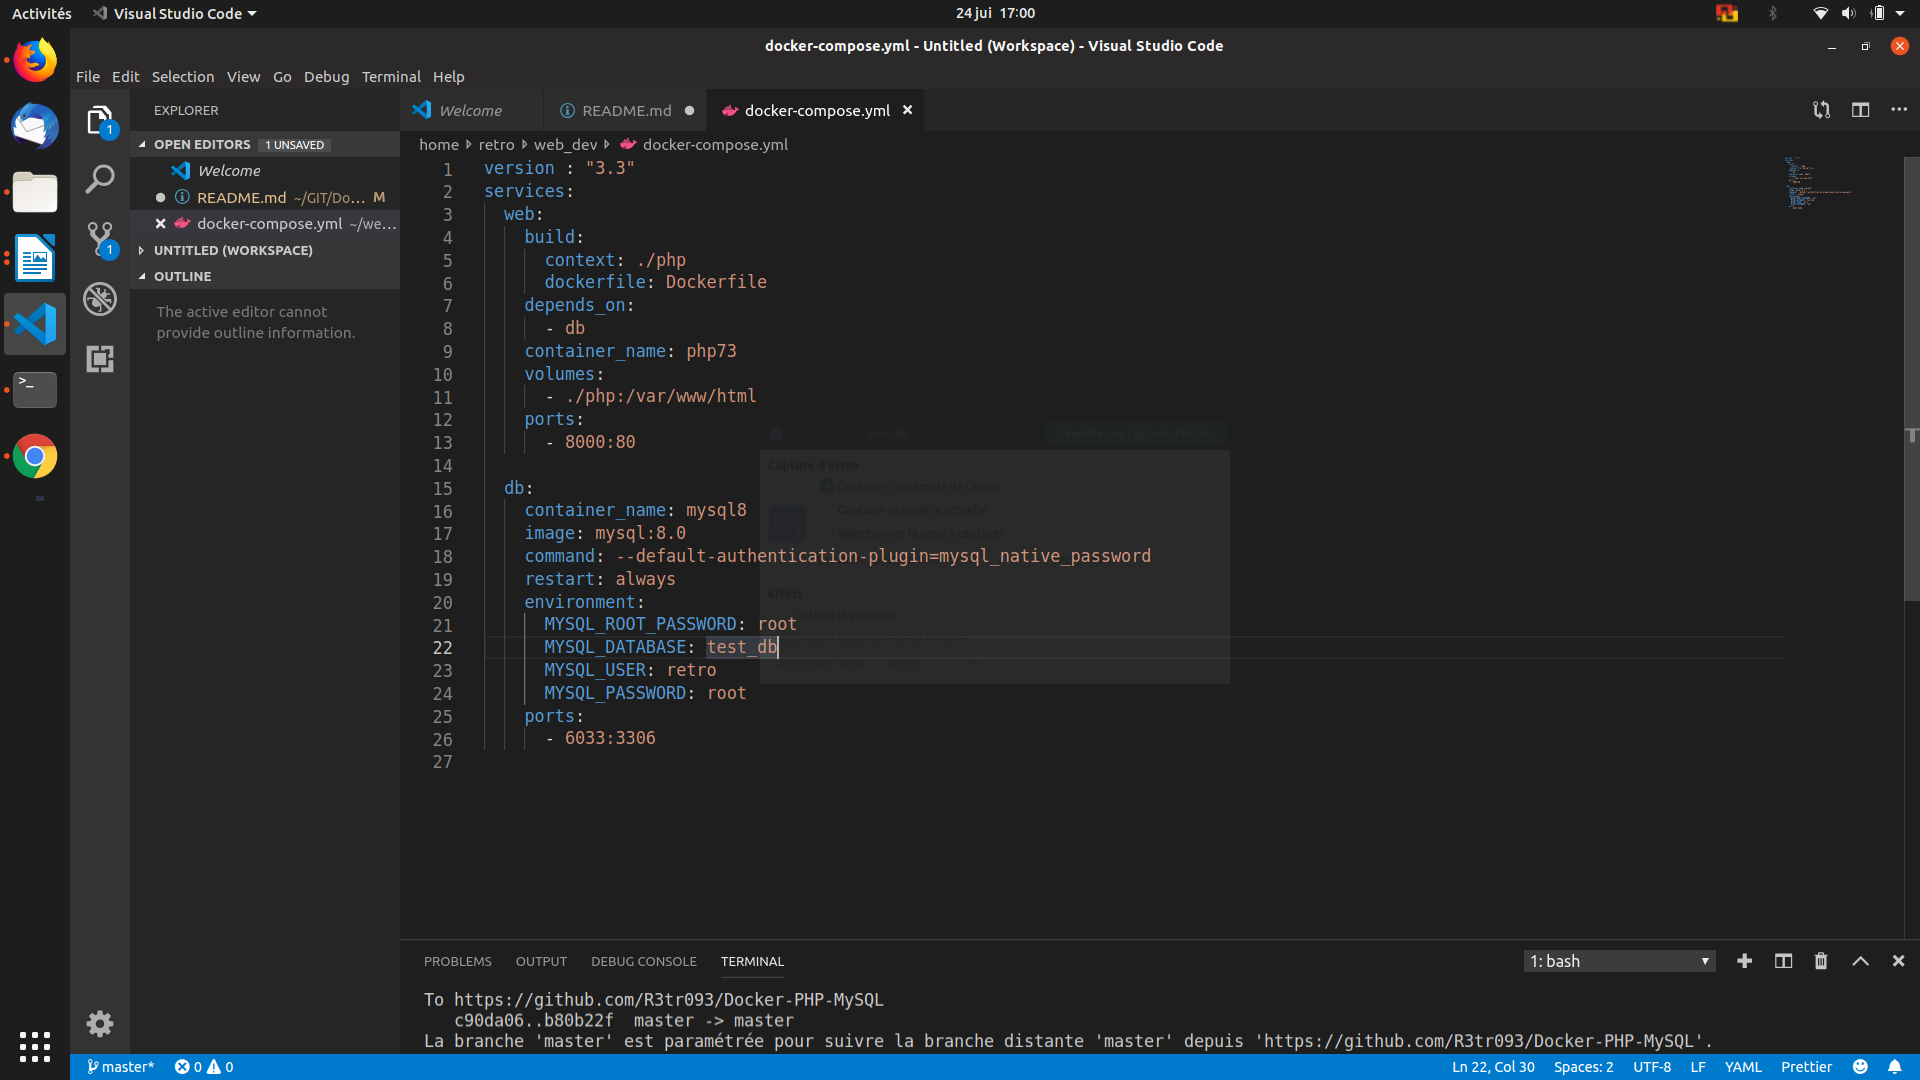
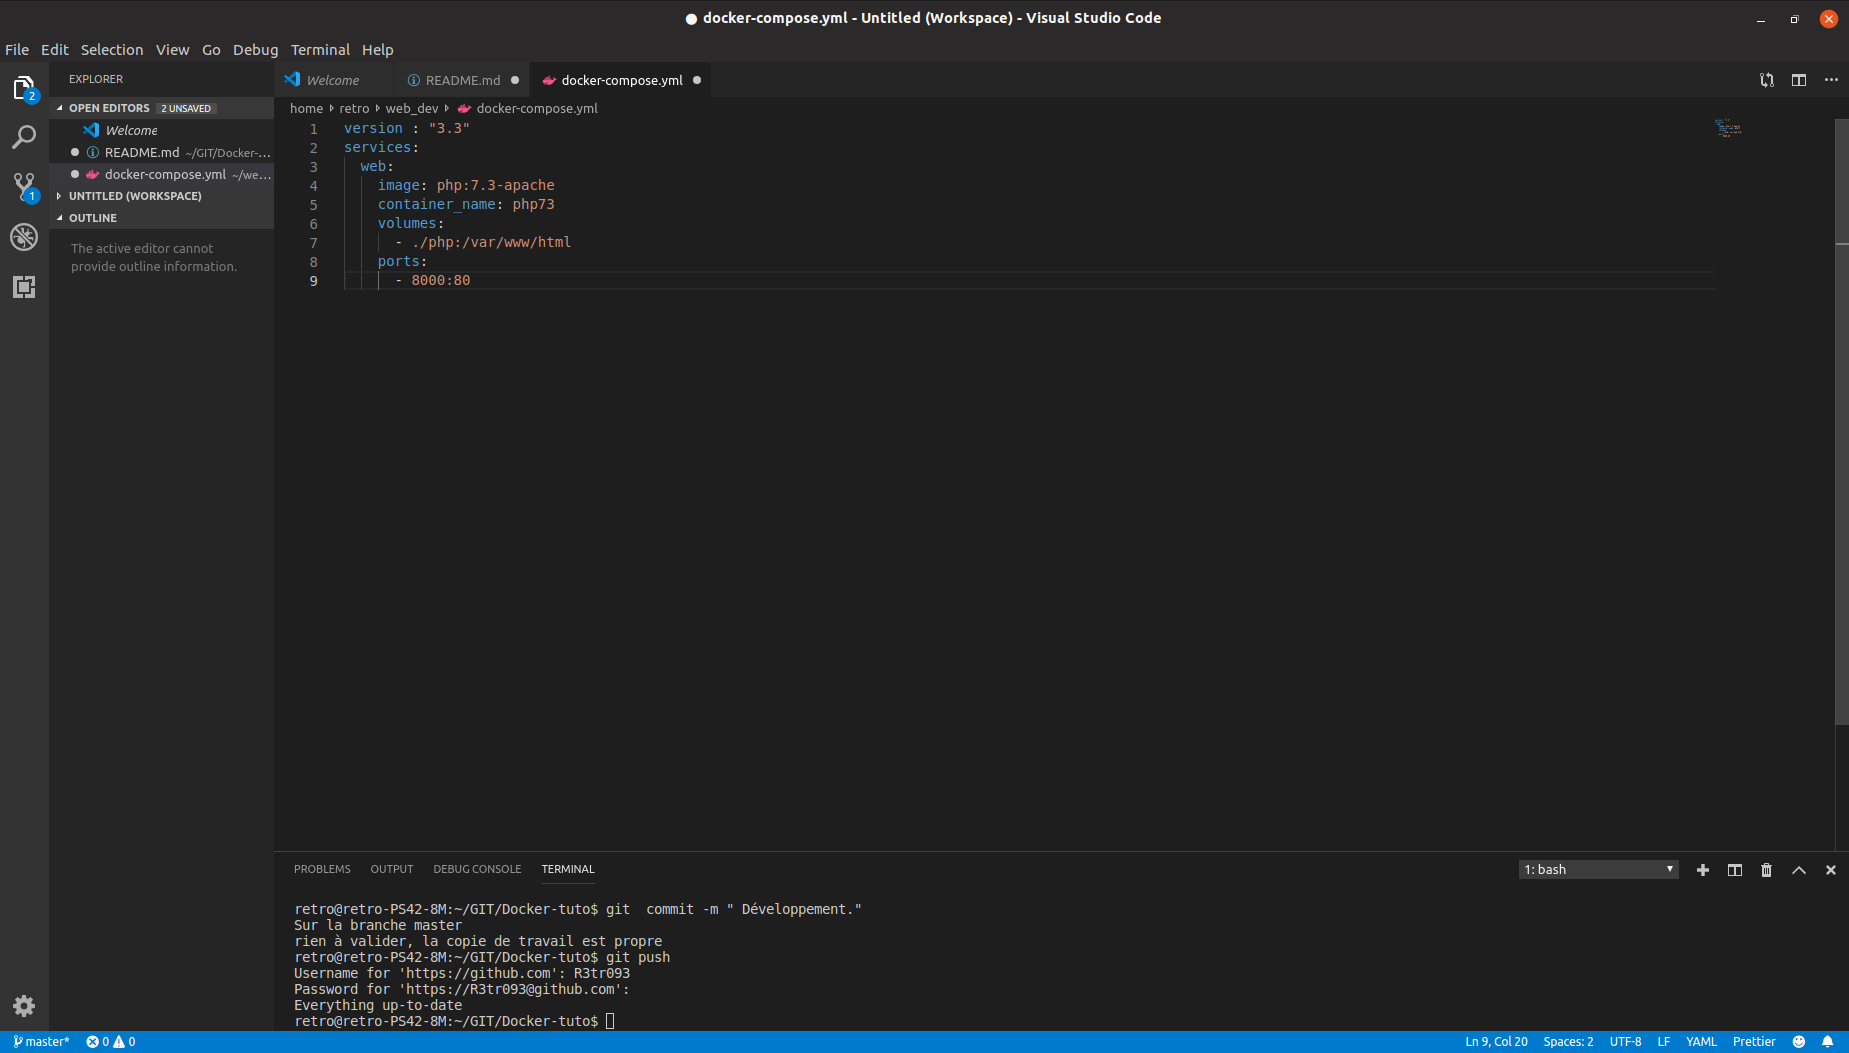
Développement

diff --git a/Install/README.md b/Install/README.md
@@ -11,3 +11,31 @@
 <p> Bref, vous avez un dossier super ! </p>
 
 <img src="2.png">
+
+<h2> Étape 2 : Créez un fichier docker-compose </h2>
+
+<p> Pour la seconde étape rendez vous dans votre dossier web_dev, ensuite créez un fichier nommé <em>"docker-compose.yml"</em>
+
+<p> Pour ce faire vous pouvez tapez la commande suivante dans votre terminal : <br><br>
+
+<em>touch docker-compose.yml</em>
+
+<img src="3.png">
+<br>
+<img src="4.png">
+
+<p> Vous pouvez ensuite ouvrir ce fichier depuis votre éditeur de texte ou avec vim avec la commande suivante : <br><br>
+
+<em> vim docker-compose.yml </em>
+
+ <br><br>
+
+<img src="5.png">
+
+<p> Que vous ayez choisis vim ou votre éditeur de texte le but c'est de mettre du texte, recopier dans ce fichier le code ci-dessous : </p>
+
+<img src="6.png">   
+
+<p> Les fichiers contenant du code seront conservés dans le dossier " example " du repository. </p>
+
+
